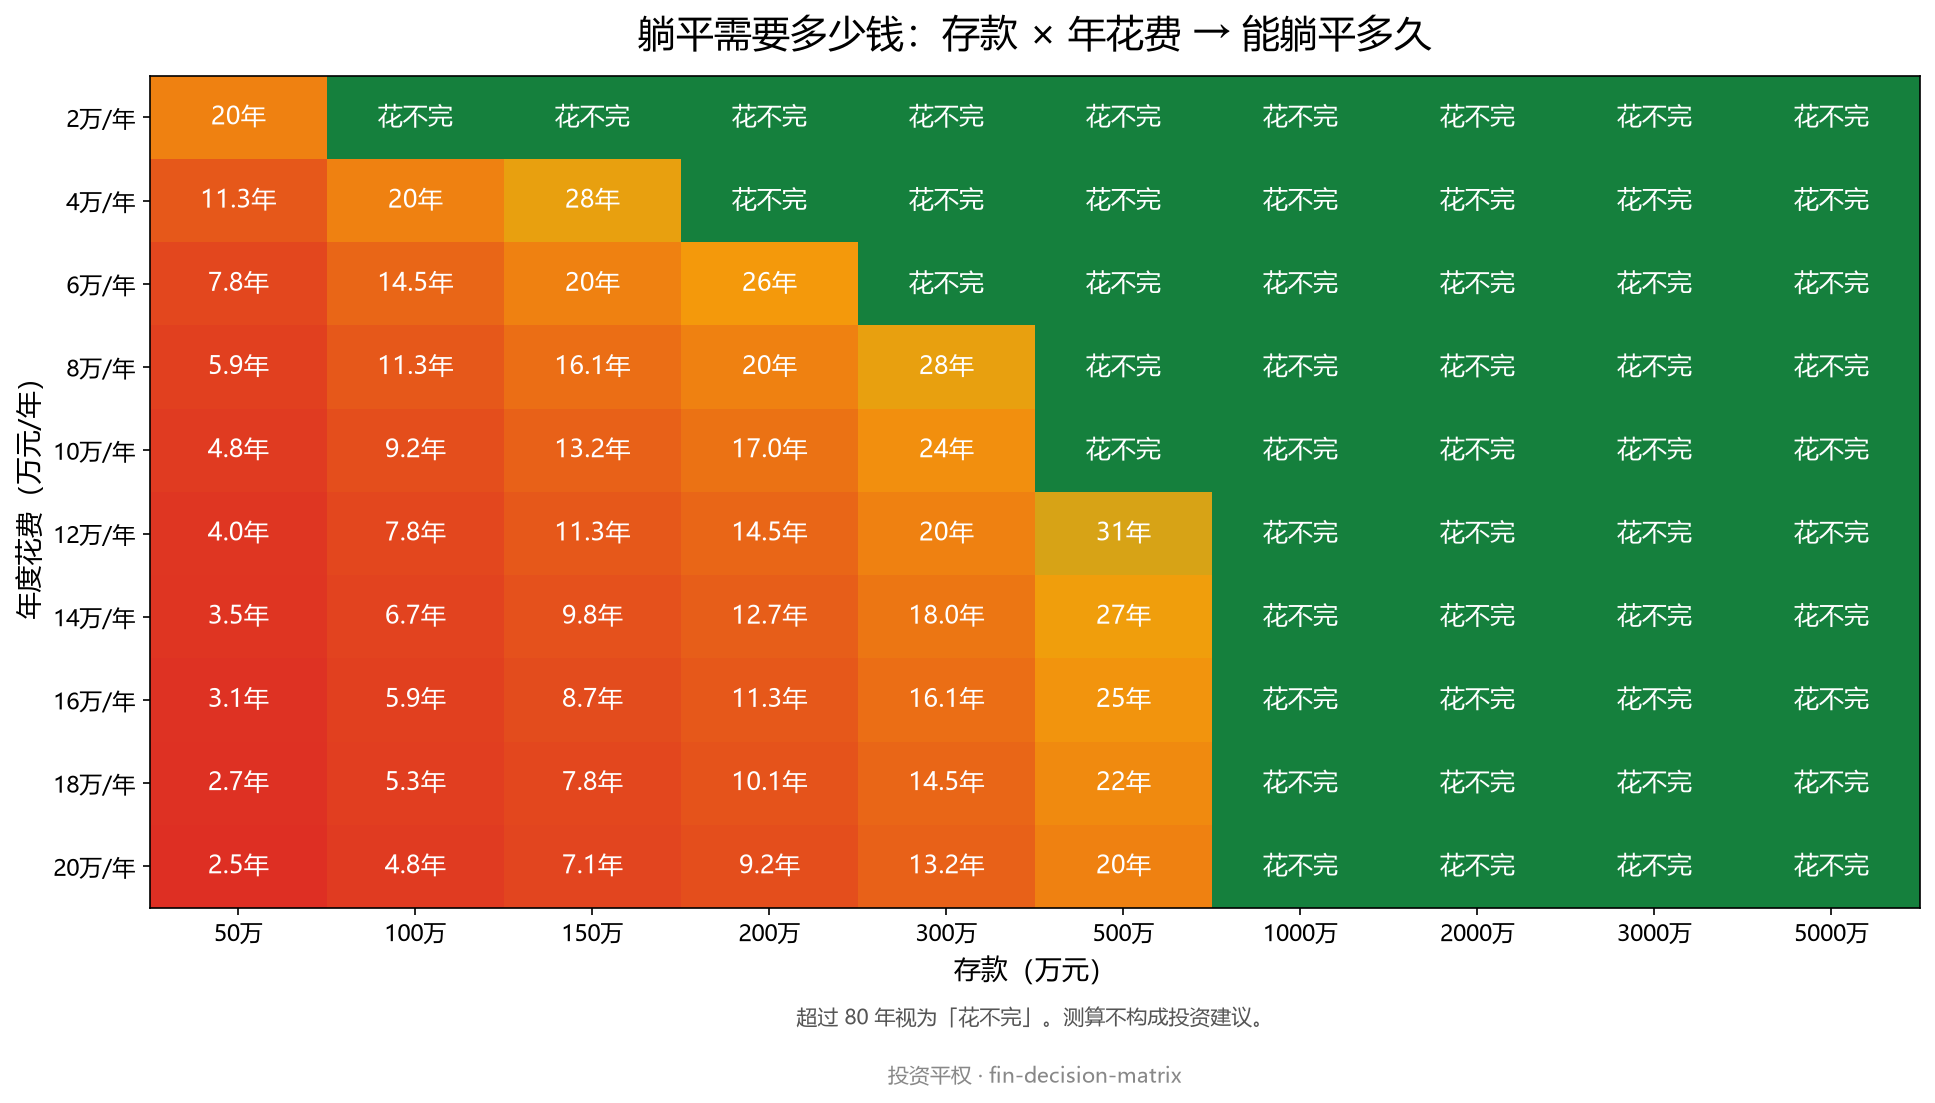
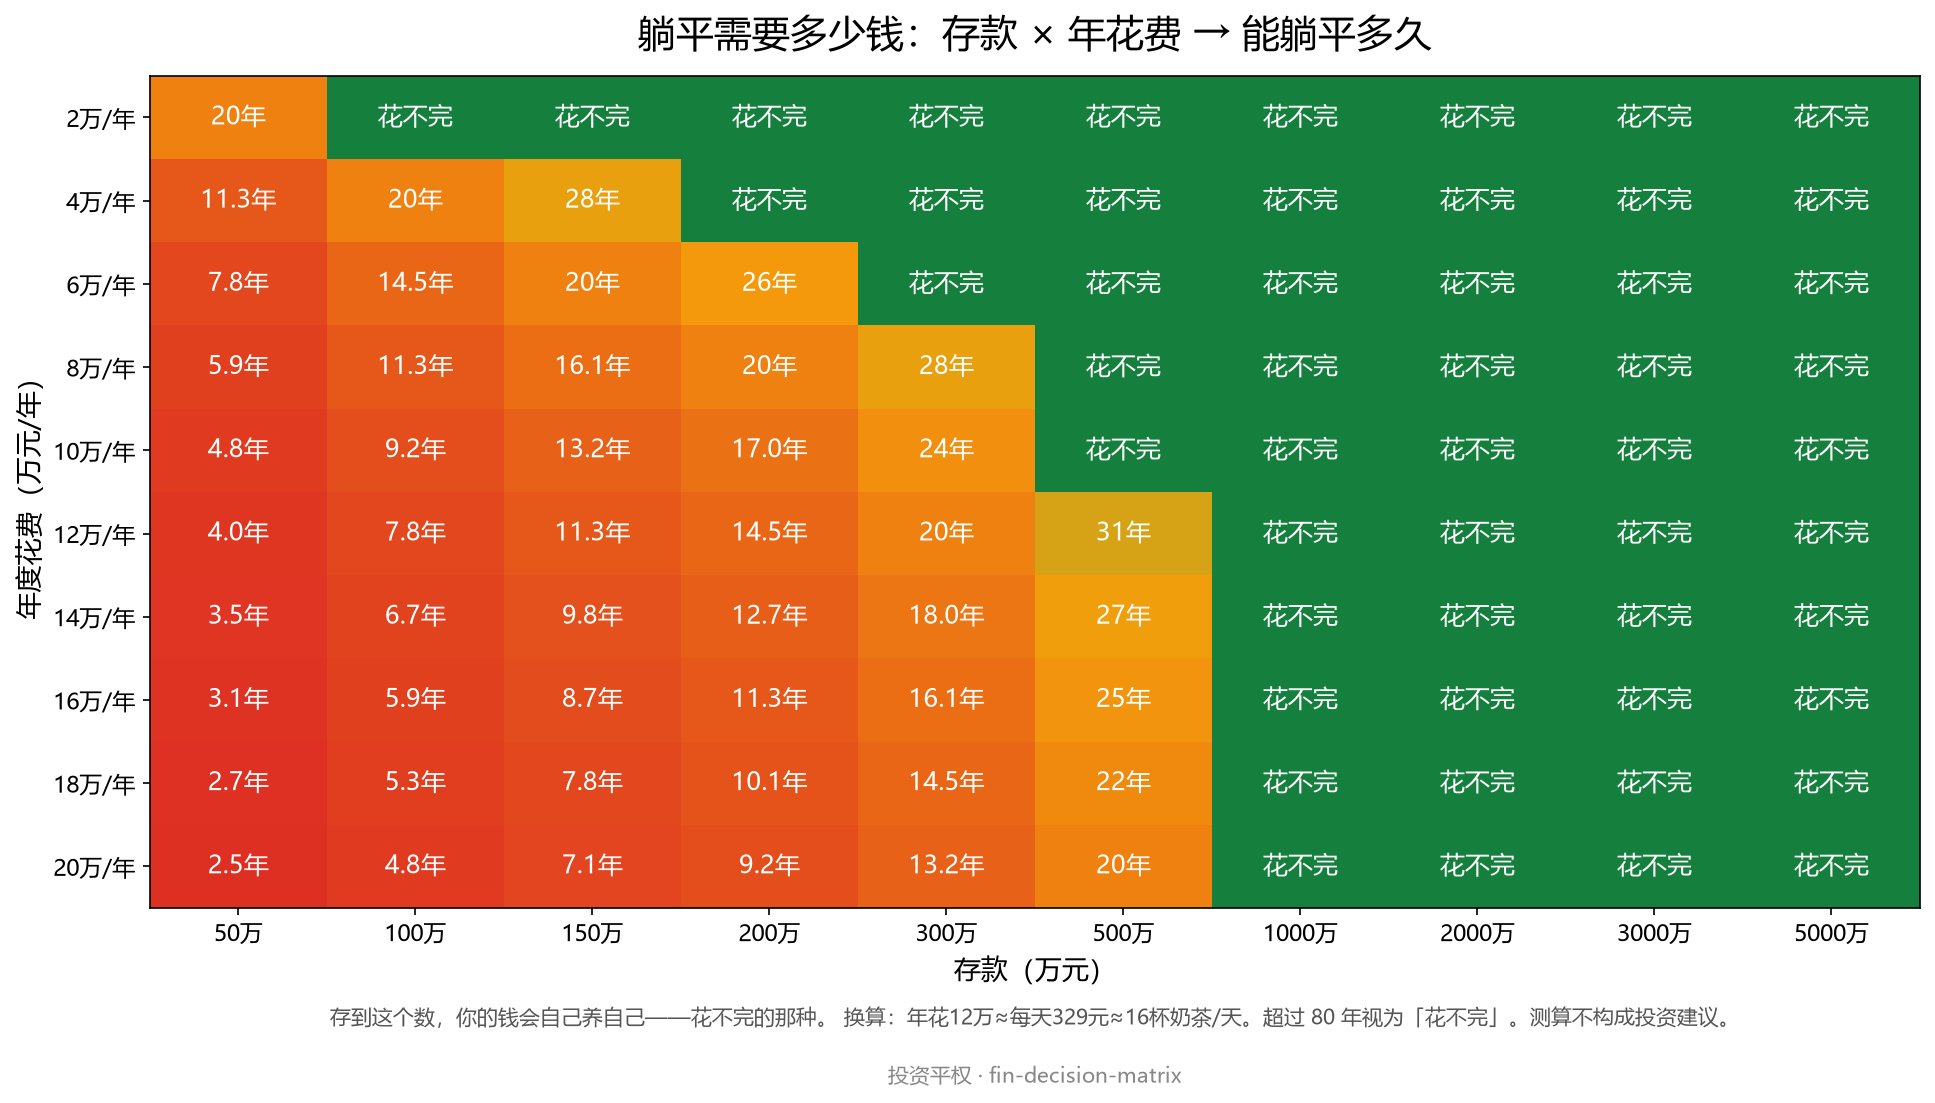
feat: 落实陈锦初传播方法论到躺平场景产物（情绪钩子/换算句/可晒文案/首页钩子）

Changed region(s): [[0.155, 0.8939, 0.8992, 0.9556]]

diff --git a/output/躺平需要多少钱_结果卡_存款300万年花10万.html b/output/躺平需要多少钱_结果卡_存款300万年花10万.html
@@ -1,0 +1,38 @@
+<!DOCTYPE html>
+<html lang="zh-CN"><head><meta charset="utf-8"><title>躺平需要多少钱 · 结果卡</title>
+<style>
+  * { margin:0; padding:0; box-sizing:border-box; font-family:"Microsoft YaHei","PingFang SC",sans-serif; }
+  body { background:#0f172a; padding:24px; display:flex; justify-content:center; }
+  .rcard { background:linear-gradient(160deg,#1e293b,#0f172a); color:#fff; border-radius:20px;
+           max-width:640px; padding:32px; box-shadow:0 12px 40px rgba(0,0,0,.4); }
+  .rhead { font-size:20px; font-weight:700; color:#fbbf24; line-height:1.5; }
+  .rlabel { font-size:13px; color:#94a3b8; margin-top:22px; }
+  .rbig { font-size:52px; font-weight:800; margin:4px 0 10px; letter-spacing:1px; }
+  .rsub { font-size:14px; color:#cbd5e1; line-height:1.7; }
+  .rcompare { background:#111827; border-radius:12px; padding:14px 18px; margin-top:18px; font-size:14px; line-height:2; }
+  .rcmp-hi { color:#4ade80; font-weight:700; }
+  .rcmp-lo { color:#f87171; font-weight:700; }
+  .rquote { margin-top:16px; font-size:15px; color:#fbbf24; font-weight:700; text-align:center; }
+  .rconvert { margin-top:14px; background:#052e16; border:1px solid #166534; border-radius:10px;
+              padding:10px 14px; font-size:13px; color:#86efac; line-height:1.7; }
+  .rconvert b { color:#4ade80; font-size:15px; }
+  .rshare { margin-top:12px; background:#111827; border-left:3px solid #fbbf24; border-radius:8px;
+            padding:10px 14px; font-size:13px; color:#e2e8f0; line-height:1.8; }
+  .rshare .tag { display:inline-block; background:#fbbf24; color:#0f172a; font-size:11px; font-weight:700;
+                 padding:1px 8px; border-radius:6px; margin-right:8px; }
+  .rdisclaimer { margin-top:14px; font-size:11px; color:#64748b; line-height:1.6; }
+  .rwatermark { margin-top:10px; text-align:center; font-size:11px; color:#64748b; letter-spacing:1px; }
+</style></head><body>
+<div class="rcard">
+  <div class="rhead">你的存款，够你躺平到几岁？</div>
+  <div class="rlabel">你的答案</div>
+  <div class="rbig" style="color:#f59e0b">24年</div>
+  <div class="rsub">存款 300.0万，每年花 10.0万/年：可持续 24 年，之后归零。</div>
+  <div class="rconvert">换算：年花 10.0万/年 ≈ 每天 <b>274 元</b> ≈ <b>14 杯奶茶/天</b></div>
+  <div class="rcompare">&nbsp;&nbsp;你的方案：存款 300.0万 / 年花 10.0万/年 → <span class="rcmp-hi">24年</span><br>&nbsp;&nbsp;对比方案：存款 500.0万 / 年花 10.0万/年 → <span class="rcmp-lo">花不完</span><br>&nbsp;&nbsp;本金差 200万，可持续性差一档。</div>
+  <div class="rquote">躺平的底气，是本金和欲望的差。还差 200 万，才够躺平。</div>
+  <div class="rshare"><span class="tag">可晒</span>我算了一下：存款 300.0 万、年花 10.0 万，在年化 2% 的保守假设下——24年。你的钱，会自己养自己。#躺平需要多少钱</div>
+  <div class="rdisclaimer">测算基于年化实际收益率 2% 的保守假设，不构成投资建议；实际结果因市场波动、通胀、个人提取策略差异可能有重大差异。</div>
+  <div class="rwatermark">投资平权 · fin-decision-matrix</div>
+</div>
+</body></html>

diff --git a/output/躺平需要多少钱_结果卡_存款500万年花10万.html b/output/躺平需要多少钱_结果卡_存款500万年花10万.html
@@ -13,16 +13,25 @@
   .rcmp-hi { color:#4ade80; font-weight:700; }
   .rcmp-lo { color:#f87171; font-weight:700; }
   .rquote { margin-top:16px; font-size:15px; color:#fbbf24; font-weight:700; text-align:center; }
+  .rconvert { margin-top:14px; background:#052e16; border:1px solid #166534; border-radius:10px;
+              padding:10px 14px; font-size:13px; color:#86efac; line-height:1.7; }
+  .rconvert b { color:#4ade80; font-size:15px; }
+  .rshare { margin-top:12px; background:#111827; border-left:3px solid #fbbf24; border-radius:8px;
+            padding:10px 14px; font-size:13px; color:#e2e8f0; line-height:1.8; }
+  .rshare .tag { display:inline-block; background:#fbbf24; color:#0f172a; font-size:11px; font-weight:700;
+                 padding:1px 8px; border-radius:6px; margin-right:8px; }
   .rdisclaimer { margin-top:14px; font-size:11px; color:#64748b; line-height:1.6; }
   .rwatermark { margin-top:10px; text-align:center; font-size:11px; color:#64748b; letter-spacing:1px; }
 </style></head><body>
 <div class="rcard">
-  <div class="rhead">躺平需要多少钱</div>
+  <div class="rhead">你的存款，够你躺平到几岁？</div>
   <div class="rlabel">你的答案</div>
   <div class="rbig" style="color:#15803d">花不完</div>
-  <div class="rsub">本金 500.0万，每年花 10.0万/年：收益已覆盖开销，财务自由线内。</div>
-  <div class="rcompare">&nbsp;&nbsp;你的方案：本金 500.0万 / 年花 10.0万/年 → <span class="rcmp-hi">花不完</span><br>&nbsp;&nbsp;对比方案：本金 300.0万 / 年花 10.0万/年 → <span class="rcmp-lo">24年</span><br>&nbsp;&nbsp;差距：本金差 200.0万，可持续性差一档。</div>
-  <div class="rquote">你的钱，会自己养自己。</div>
+  <div class="rsub">存款 500.0万，每年花 10.0万/年：收益已覆盖开销，财务自由线内。</div>
+  <div class="rconvert">换算：年花 10.0万/年 ≈ 每天 <b>274 元</b> ≈ <b>14 杯奶茶/天</b></div>
+  <div class="rcompare">&nbsp;&nbsp;你的方案：存款 500.0万 / 年花 10.0万/年 → <span class="rcmp-hi">花不完</span><br>&nbsp;&nbsp;对比方案：存款 300.0万 / 年花 10.0万/年 → <span class="rcmp-lo">24年</span><br>&nbsp;&nbsp;如果当初多存 200万——从「24年」到「花不完」。一字之差，人生两条线。</div>
+  <div class="rquote">你的钱，会自己养自己——每天醒来，账户自动给你发 274 元。</div>
+  <div class="rshare"><span class="tag">可晒</span>我算了一下：存款 500.0 万、年花 10.0 万，在年化 2% 的保守假设下——花不完。你的钱，会自己养自己。#躺平需要多少钱</div>
   <div class="rdisclaimer">测算基于年化实际收益率 2% 的保守假设，不构成投资建议；实际结果因市场波动、通胀、个人提取策略差异可能有重大差异。</div>
   <div class="rwatermark">投资平权 · fin-decision-matrix</div>
 </div>

diff --git a/output/躺平需要多少钱_决策矩阵.html b/output/躺平需要多少钱_决策矩阵.html
@@ -7,6 +7,8 @@
           max-width:980px; margin:0 auto; padding:28px 32px; }
   h1 { font-size:30px; color:#111827; text-align:center; }
   .subtitle { text-align:center; color:#6b7280; font-size:14px; margin:6px 0 18px; }
+  .emotion { display:inline-block; background:#fef3c7; color:#b45309; font-size:11px; padding:2px 8px;
+             border-radius:999px; margin-left:8px; vertical-align:middle; font-weight:700; }
   .assume { background:#f3f4f6; border-radius:10px; padding:10px 14px; font-size:13px;
             color:#374151; margin-bottom:16px; line-height:1.7; }
   table { width:100%; border-collapse:separate; border-spacing:4px; }
@@ -21,10 +23,10 @@
   .dot { width:14px; height:14px; border-radius:4px; display:inline-block; }
 </style></head><body>
 <div class="card">
-  <h1>躺平需要多少钱</h1>
-  <div class="subtitle">存款 × 年花费 → 你能躺平多久？</div>
+  <h1>你的存款，够你躺平到几岁？</h1>
+  <div class="subtitle">存到这个数，你的钱会自己养自己——花不完的那种。<span class="emotion">向往 + 爽感</span></div>
   <div class="assume">假设：年化实际收益率 2.0%（已扣除通胀）；年花费恒定、无大额一次性支出；
-  可持续年限超过 80 年视为「花不完」。</div>
+  可持续年限超过 80 年视为「花不完」。<br>换算：年花 10万/年 ≈ 每天 <b>274 元</b> ≈ 14 杯奶茶/天——你的存款，正在替你赚回来。</div>
   <div class="legend"><span><i class="dot" style="background:#15803d"></i>花不完/永续</span><span><i class="dot" style="background:#22c55e"></i>≥30年</span><span><i class="dot" style="background:#f59e0b"></i>10-30年</span><span><i class="dot" style="background:#dc2626"></i>&lt;10年</span></div>
   <table>
     <tr><th class="rowhead">年度花费（万元）</th><th>50万</th><th>100万</th><th>150万</th><th>200万</th><th>300万</th><th>500万</th><th>1000万</th><th>2000万</th><th>3000万</th><th>5000万</th></tr>

diff --git a/index.html b/index.html
@@ -202,12 +202,13 @@
       <div class="dot"></div>
       <div class="card">
         <div class="age">60 岁 · 退休当天 ★ 首个已上线场景</div>
-        <h3>躺平需要多少钱？<span class="badge badge-live">已上线</span></h3>
-        <p class="q">存款 × 年花费 → 你能躺平多久？两个变量对号入座，看你的钱会不会自己养自己。</p>
-        <div class="domains"><span>躺平退休</span><span>退休提取</span></div>
+        <h3>你的存款，够你躺平到几岁？<span class="badge badge-live">已上线</span></h3>
+        <p class="q">存到这个数，你的钱会自己养自己——花不完的那种。存款 × 年花费 → 能躺多久，两个变量对号入座。<br>换算：年花 10 万 ≈ 每天 274 元 ≈ 14 杯奶茶/天。</p>
+        <div class="domains"><span>躺平退休</span><span>退休提取</span><span>向往 + 爽感</span></div>
         <div class="btns">
           <a class="btn btn-live" href="output/躺平需要多少钱_决策矩阵.html">打开决策矩阵</a>
-          <a class="btn btn-live" href="output/躺平需要多少钱_结果卡_存款500万年花10万.html">看结果卡示例</a>
+          <a class="btn btn-live" href="output/躺平需要多少钱_结果卡_存款500万年花10万.html">花不完 · 结果卡</a>
+          <a class="btn btn-live" href="output/躺平需要多少钱_结果卡_存款300万年花10万.html">还差 X 万 · 结果卡</a>
         </div>
       </div>
     </div>

diff --git a/engine/render.py b/engine/render.py
@@ -15,6 +15,8 @@ PAGE_CSS = """
           max-width:980px; margin:0 auto; padding:28px 32px; }
   h1 { font-size:30px; color:#111827; text-align:center; }
   .subtitle { text-align:center; color:#6b7280; font-size:14px; margin:6px 0 18px; }
+  .emotion { display:inline-block; background:#fef3c7; color:#b45309; font-size:11px; padding:2px 8px;
+             border-radius:999px; margin-left:8px; vertical-align:middle; font-weight:700; }
   .assume { background:#f3f4f6; border-radius:10px; padding:10px 14px; font-size:13px;
             color:#374151; margin-bottom:16px; line-height:1.7; }
   table { width:100%; border-collapse:separate; border-spacing:4px; }
@@ -42,9 +44,28 @@ RESULT_CARD_CSS = """
   .rcmp-hi { color:#4ade80; font-weight:700; }
   .rcmp-lo { color:#f87171; font-weight:700; }
   .rquote { margin-top:16px; font-size:15px; color:#fbbf24; font-weight:700; text-align:center; }
+  .rconvert { margin-top:14px; background:#052e16; border:1px solid #166534; border-radius:10px;
+              padding:10px 14px; font-size:13px; color:#86efac; line-height:1.7; }
+  .rconvert b { color:#4ade80; font-size:15px; }
+  .rshare { margin-top:12px; background:#111827; border-left:3px solid #fbbf24; border-radius:8px;
+            padding:10px 14px; font-size:13px; color:#e2e8f0; line-height:1.8; }
+  .rshare .tag { display:inline-block; background:#fbbf24; color:#0f172a; font-size:11px; font-weight:700;
+                 padding:1px 8px; border-radius:6px; margin-right:8px; }
   .rdisclaimer { margin-top:14px; font-size:11px; color:#64748b; line-height:1.6; }
   .rwatermark { margin-top:10px; text-align:center; font-size:11px; color:#64748b; letter-spacing:1px; }
 """
+
+
+def _convert_note(cfg: ScenarioConfig) -> str:
+    """陈锦初换算句：抽象大数字 → 可感知行为（如每天 X 元 / X 杯奶茶）"""
+    if not cfg.convert:
+        return ''
+    mid = min(cfg.y_values, key=lambda v: abs(v - 10))
+    daily = mid * 10000 / 365
+    cups = round(daily / 20)
+    extra = cfg.convert.get('extra', '').replace('{cups}', f'{cups:.0f}')
+    return (f"换算：年花 {mid}{cfg.y_unit} ≈ 每天 <b>{daily:.0f} 元</b> ≈ {cups:.0f} 杯奶茶/天"
+            f"——你的存款，正在替你赚回来。")
 
 
 def render_matrix_html(cfg: ScenarioConfig, out_path: str) -> str:
@@ -65,14 +86,16 @@ def render_matrix_html(cfg: ScenarioConfig, out_path: str) -> str:
         f'<span><i class="dot" style="background:{CELL_COLORS["danger"]}"></i>&lt;10年</span>'
         '</div>'
     )
+    emotion = f'<span class="emotion">{cfg.emotion}</span>' if cfg.emotion else ''
+    convert_note = _convert_note(cfg)
     html = f"""<!DOCTYPE html>
 <html lang="zh-CN"><head><meta charset="utf-8"><title>{cfg.title}</title>
 <style>{PAGE_CSS}</style></head><body>
 <div class="card">
-  <h1>{cfg.title}</h1>
-  <div class="subtitle">{cfg.subtitle}</div>
+  <h1>{cfg.hook_title or cfg.title}</h1>
+  <div class="subtitle">{cfg.hook_line or cfg.subtitle}{emotion}</div>
   <div class="assume">假设：年化实际收益率 {cfg.annual_return*100:.1f}%（已扣除通胀）；年花费恒定、无大额一次性支出；
-  可持续年限超过 {cfg.perpetual_threshold:.0f} 年视为「花不完」。</div>
+  可持续年限超过 {cfg.perpetual_threshold:.0f} 年视为「花不完」。<br>{convert_note}</div>
   {legend}
   <table>
     <tr><th class="rowhead">{cfg.y_name}</th>{head_cells}</tr>
@@ -93,30 +116,51 @@ def render_result_card(cfg: ScenarioConfig, principal: float, spend: float,
     r = single_result(cfg, principal, spend)
     rc = single_result(cfg, compare_principal, spend)
     big_text = r.display if r.display == '花不完' else f'{r.display}'
+    daily = spend * 10000 / 365
     if r.display == '花不完':
-        rsub = f'本金 {principal}{cfg.x_unit}，每年花 {spend}{cfg.y_unit}：收益已覆盖开销，财务自由线内。'
-        quote = '你的钱，会自己养自己。'
+        rsub = f'存款 {principal}{cfg.x_unit}，每年花 {spend}{cfg.y_unit}：收益已覆盖开销，财务自由线内。'
+        quote = f'你的钱，会自己养自己——每天醒来，账户自动给你发 {daily:.0f} 元。'
     else:
         years_f = int(round(r.years)) if r.years >= 20 else f'{r.years:.1f}'
-        rsub = f'本金 {principal}{cfg.x_unit}，每年花 {spend}{cfg.y_unit}：可持续 {years_f} 年，之后归零。'
-        quote = '躺平的底气，是本金和欲望的差。'
+        gap = spend / cfg.annual_return - principal
+        rsub = f'存款 {principal}{cfg.x_unit}，每年花 {spend}{cfg.y_unit}：可持续 {years_f} 年，之后归零。'
+        quote = f'躺平的底气，是本金和欲望的差。还差 {gap:.0f} 万，才够躺平。'
+    if principal > compare_principal:
+        gap_line = (f'如果当初多存 {principal-compare_principal:.0f}{cfg.x_unit}——'
+                    f'从「{rc.display}」到「{r.display}」。一字之差，人生两条线。')
+    else:
+        gap_line = f'本金差 {abs(principal-compare_principal):.0f}{cfg.x_unit}，可持续性差一档。'
     compare_html = (
         '<div class="rcompare">'
-        f'&nbsp;&nbsp;你的方案：本金 {principal}{cfg.x_unit} / 年花 {spend}{cfg.y_unit} → <span class="rcmp-hi">{r.display}</span><br>'
-        f'&nbsp;&nbsp;对比方案：本金 {compare_principal}{cfg.x_unit} / 年花 {spend}{cfg.y_unit} → <span class="rcmp-lo">{rc.display}</span><br>'
-        f'&nbsp;&nbsp;差距：本金差 {abs(principal-compare_principal)}{cfg.x_unit}，可持续性差一档。'
+        f'&nbsp;&nbsp;你的方案：存款 {principal}{cfg.x_unit} / 年花 {spend}{cfg.y_unit} → <span class="rcmp-hi">{r.display}</span><br>'
+        f'&nbsp;&nbsp;对比方案：存款 {compare_principal}{cfg.x_unit} / 年花 {spend}{cfg.y_unit} → <span class="rcmp-lo">{rc.display}</span><br>'
+        f'&nbsp;&nbsp;{gap_line}'
         '</div>'
     )
+    convert_html = ''
+    if cfg.convert:
+        cups = daily / 20
+        convert_html = (
+            '<div class="rconvert">'
+            f'换算：年花 {spend}{cfg.y_unit} ≈ 每天 <b>{daily:.0f} 元</b> ≈ <b>{cups:.0f} 杯奶茶/天</b>'
+            '</div>'
+        )
+    share_html = ''
+    if cfg.share_copy:
+        share_text = cfg.share_copy.format(principal=principal, spend=spend, result=r.display)
+        share_html = f'<div class="rshare"><span class="tag">可晒</span>{share_text}</div>'
     html = f"""<!DOCTYPE html>
 <html lang="zh-CN"><head><meta charset="utf-8"><title>{cfg.title} · 结果卡</title>
 <style>{RESULT_CARD_CSS}</style></head><body>
 <div class="rcard">
-  <div class="rhead">{cfg.title}</div>
+  <div class="rhead">{cfg.hook_title or cfg.title}</div>
   <div class="rlabel">你的答案</div>
   <div class="rbig" style="color:{r.color}">{big_text}</div>
   <div class="rsub">{rsub}</div>
+  {convert_html}
   {compare_html}
   <div class="rquote">{quote}</div>
+  {share_html}
   <div class="rdisclaimer">{cfg.disclaimer}</div>
   <div class="rwatermark">{cfg.watermark}</div>
 </div>

diff --git a/scripts/render_png.py b/scripts/render_png.py
@@ -40,15 +40,19 @@ def render_png(cfg, out_path):
     ax.set_xlabel('存款（万元）', fontproperties=zh, fontsize=13)
     ax.set_ylabel('年度花费（万元/年）', fontproperties=zh, fontsize=13)
     ax.set_title(cfg['title'] + '：存款 × 年花费 → 能躺平多久', fontproperties=zh, fontsize=18, pad=14)
-
     for i in range(len(ys)):
         for j in range(len(xs)):
             n = data[i][j]
             txt = '花不完' if (math.isinf(n) or n >= thr) else (f'{n:.0f}年' if n >= 20 else f'{n:.1f}年')
             ax.text(j, i, txt, ha='center', va='center', fontsize=12, fontweight='bold', color='#ffffff', fontproperties=zh)
 
-    assume = cfg.get('assumption_note', '')
-    ax.text(0.5, -0.14, assume + '超过 80 年视为「花不完」。测算不构成投资建议。',
+    hook = cfg.get('hook_line', '')
+    mid = cfg['y_values'][len(cfg['y_values']) // 2]
+    daily = round(mid * 10000 / 365)
+    cups = round(daily / 20)
+    note = (f'{hook} 换算：年花{mid}万≈每天{daily}元≈{cups}杯奶茶/天。'
+            f'超过 80 年视为「花不完」。测算不构成投资建议。')
+    ax.text(0.5, -0.14, note,
             transform=ax.transAxes, ha='center', fontsize=10, color='#555555', fontproperties=zh)
     ax.text(0.5, -0.21, '投资平权 · fin-decision-matrix',
             transform=ax.transAxes, ha='center', fontsize=10, color='#888888', fontproperties=zh)

diff --git a/engine/core.py b/engine/core.py
@@ -34,6 +34,12 @@ class ScenarioConfig:
     perpetual_threshold: float      # 超过该年数视为"花不完"
     disclaimer: str
     watermark: str
+    # —— 陈锦初营销层（可选）——
+    hook_title: str = ''            # 情绪钩子标题
+    hook_line: str = ''             # 一句话副标题（10 秒可读完）
+    emotion: str = ''               # 主情绪标签（后悔/幻想/焦虑/爽感/掌控感...）
+    convert: dict = None            # 换算句配置 {label, unit, extra}
+    share_copy: str = ''            # 可晒分享文案（含 {principal}/{spend}/{result} 占位）
 
 
 CELL_COLORS = {

diff --git a/main.py b/main.py
@@ -28,6 +28,11 @@ def load_config(path: str) -> ScenarioConfig:
         perpetual_threshold=d['perpetual_threshold'],
         disclaimer=d['disclaimer'],
         watermark=d['watermark'],
+        hook_title=d.get('hook_title', ''),
+        hook_line=d.get('hook_line', ''),
+        emotion=d.get('emotion', ''),
+        convert=d.get('convert'),
+        share_copy=d.get('share_copy', ''),
     )
 
 
